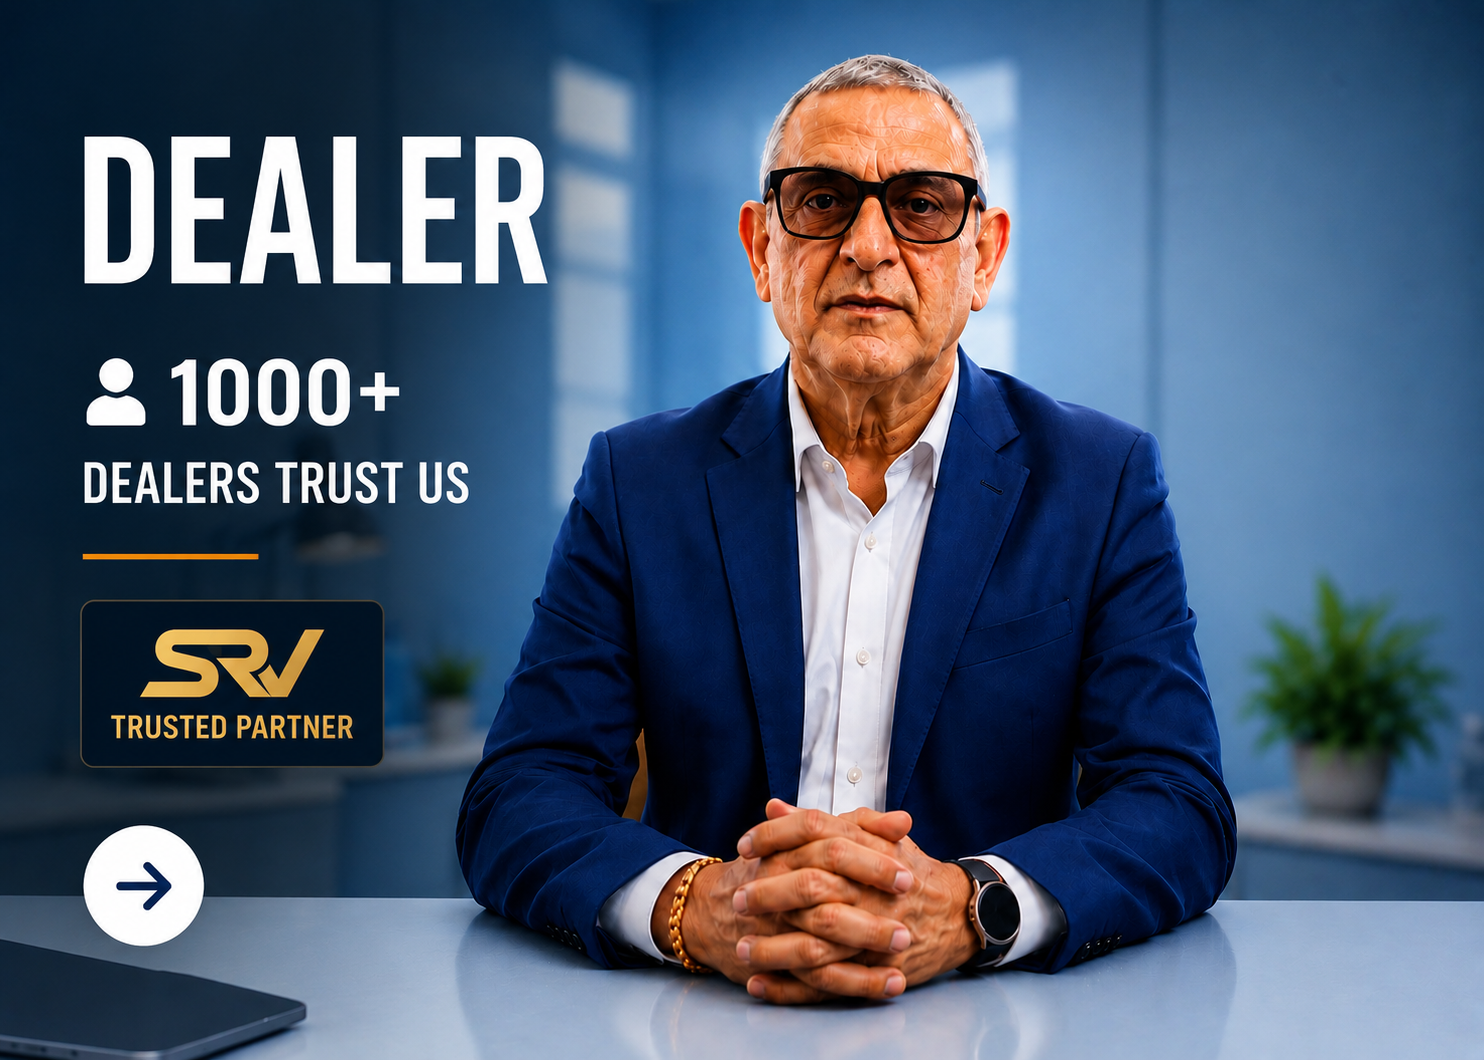
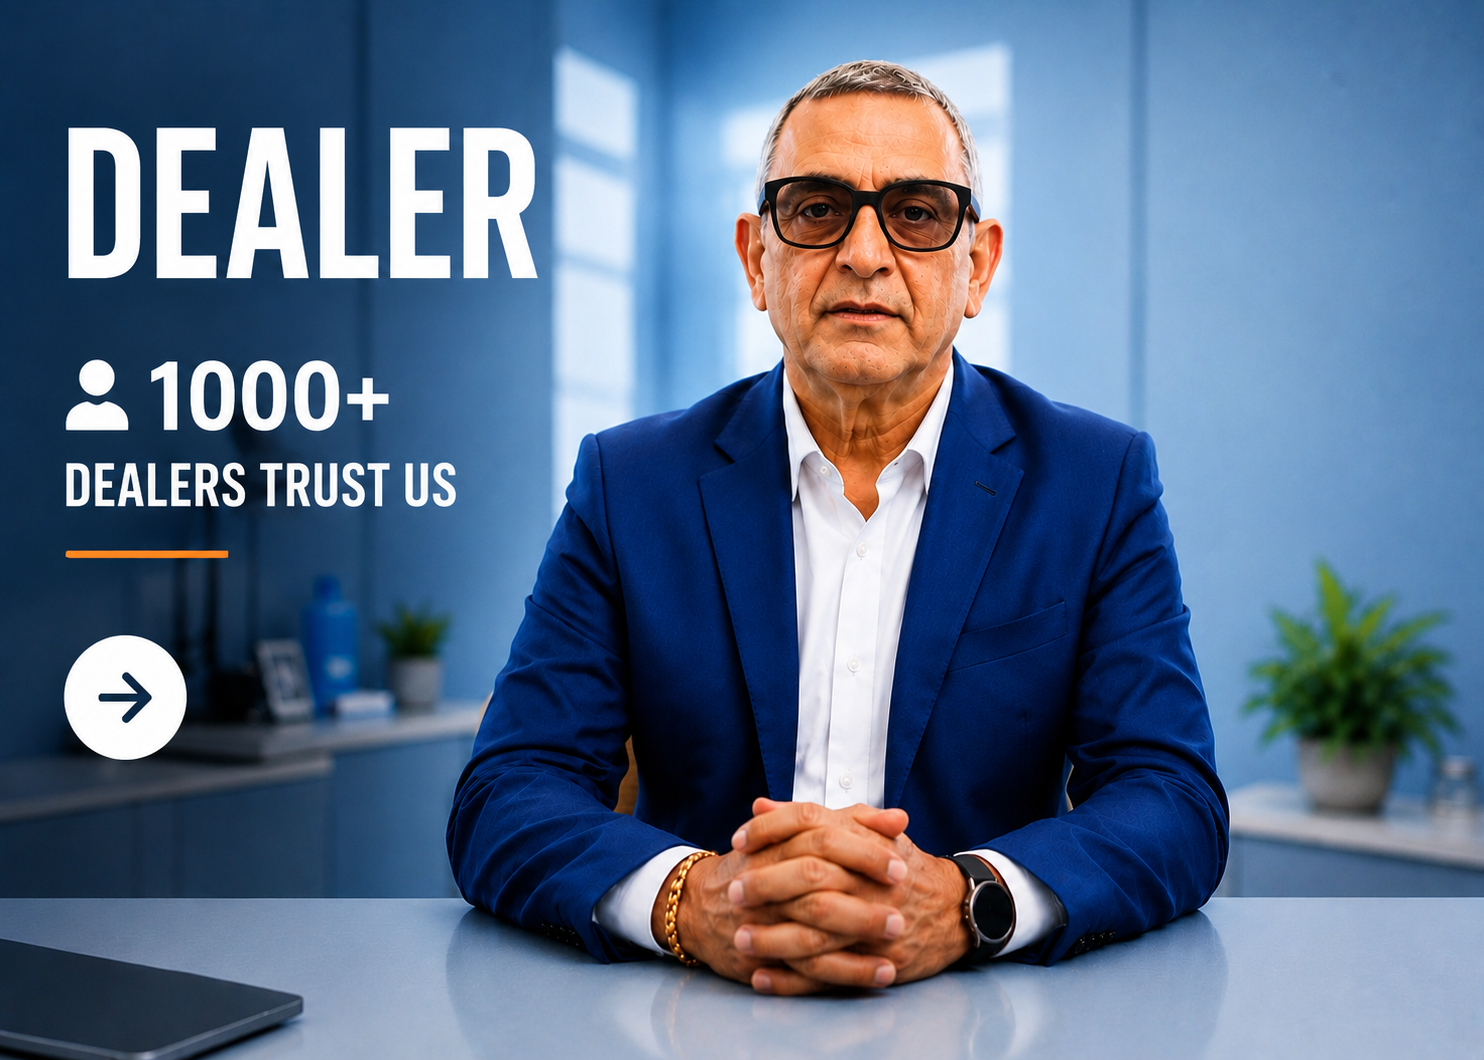
main slide design fix

diff --git a/src/features/onboarding/Main_Slide.tsx b/src/features/onboarding/Main_Slide.tsx
@@ -29,6 +29,7 @@ type FeatureBadgeConfig = {
   title: string;
   icon: 'shield' | 'award' | 'check' | 'target';
   accent: string;
+  compact?: boolean;
 };
 
 const LOGO = require('../../../assets/srv-login-logo.png');
@@ -64,7 +65,7 @@ const FEATURE_BADGES: FeatureBadgeConfig[] = [
   { title: 'BUILT WITH TRUST', icon: 'shield', accent: '#173E80' },
   { title: 'DRIVEN BY QUALITY', icon: 'award', accent: '#C85A2C' },
   { title: 'RELIABLE & DURABLE', icon: 'check', accent: '#188A2D' },
-  { title: 'PRECISION PERFORMANCE', icon: 'target', accent: '#C7332F' },
+  { title: 'PRECISION\nPERFORMANCE', icon: 'target', accent: '#C7332F', compact: true },
 ];
 
 function DividerTitle({ label, color = DARK_NAVY }: { label: string; color?: string }) {
@@ -148,6 +149,34 @@ function FeatureIcon({ icon, accent }: { icon: FeatureBadgeConfig['icon']; accen
   );
 }
 
+function TopAccentBars({
+  side,
+  top,
+}: {
+  side: 'left' | 'right';
+  top: number;
+}) {
+  const rightSide = side === 'right';
+
+  return (
+    <View
+      pointerEvents="none"
+      style={[
+        styles.accentBarsWrap,
+        rightSide ? styles.accentBarsRight : styles.accentBarsLeft,
+        { top },
+      ]}
+    >
+      <View style={[styles.barPiece, styles.barNavyLg, rightSide ? styles.barNavyLgRight : null]} />
+      <View style={[styles.barPiece, styles.barGoldMd, rightSide ? styles.barGoldMdRight : null]} />
+      <View style={[styles.barPiece, styles.barNavySm, rightSide ? styles.barNavySmRight : null]} />
+      <View style={[styles.barPiece, styles.barGoldSm, rightSide ? styles.barGoldSmRight : null]} />
+      <View style={[styles.barPiece, styles.barGoldMini, rightSide ? styles.barGoldMiniRight : null]} />
+      <View style={[styles.barDot, rightSide ? styles.barDotRight : null]} />
+    </View>
+  );
+}
+
 function RoleCard({
   item,
   onPress,
@@ -178,9 +207,8 @@ function RoleCard({
 export default function MainSlide({ onRoleSelect }: MainSlideProps) {
   const insets = useSafeAreaInsets();
   const compact = isSmallDevice;
-  const cardWidth: DimensionValue = isTablet ? '48.9%' : '48.4%';
-  const cornerTop = insets.top + hs(6);
-  const cornerGlowTop = cornerTop + hs(10);
+  const cardWidth: DimensionValue = isTablet ? '49%' : '49.1%';
+  const cornerTop = insets.top + hs(8);
 
   return (
     <SafeAreaView style={styles.container}>
@@ -188,13 +216,11 @@ export default function MainSlide({ onRoleSelect }: MainSlideProps) {
         style={[
           styles.content,
           compact ? styles.contentCompact : null,
-          { paddingTop: Math.max(insets.top, hs(8)) + hs(14) },
+          { paddingTop: Math.max(insets.top, hs(8)) + hs(18) },
         ]}
       >
-        <View style={[styles.cornerTopLeft, { top: cornerTop }]} />
-        <View style={[styles.cornerTopRight, { top: cornerTop }]} />
-        <View style={[styles.cornerGlowLeft, { top: cornerGlowTop }]} />
-        <View style={[styles.cornerGlowRight, { top: cornerGlowTop }]} />
+        <TopAccentBars side="left" top={cornerTop} />
+        <TopAccentBars side="right" top={cornerTop} />
 
         <View style={styles.heroArt}>
           <Image source={LOGO} resizeMode="contain" style={styles.heroLogo} />
@@ -226,7 +252,9 @@ export default function MainSlide({ onRoleSelect }: MainSlideProps) {
           {FEATURE_BADGES.map((badge) => (
             <View key={badge.title} style={styles.featureCard}>
               <FeatureIcon icon={badge.icon} accent={badge.accent} />
-              <Text style={styles.featureText}>{badge.title}</Text>
+              <Text style={[styles.featureText, badge.compact ? styles.featureTextCompact : null]}>
+                {badge.title}
+              </Text>
             </View>
           ))}
         </View>
@@ -243,61 +271,104 @@ const styles = StyleSheet.create({
   content: {
     flex: 1,
     paddingHorizontal: ws(18),
-    paddingBottom: hs(12),
+    paddingBottom: hs(6),
     backgroundColor: PAGE_BG,
   },
   contentCompact: {
     paddingHorizontal: ws(14),
   },
-  cornerTopLeft: {
+  accentBarsWrap: {
     position: 'absolute',
-    top: 0,
+    width: ws(100),
+    height: hs(64),
+  },
+  accentBarsLeft: {
     left: 0,
-    width: ws(118),
-    height: hs(96),
-    borderBottomRightRadius: ws(46),
-    backgroundColor: DARK_NAVY,
   },
-  cornerTopRight: {
-    position: 'absolute',
-    top: 0,
+  accentBarsRight: {
     right: 0,
-    width: ws(118),
-    height: hs(96),
-    borderBottomLeftRadius: ws(46),
-    backgroundColor: DARK_NAVY,
   },
-  cornerGlowLeft: {
+  barPiece: {
     position: 'absolute',
-    top: hs(12),
-    left: -ws(10),
-    width: ws(130),
-    height: hs(62),
-    borderBottomRightRadius: ws(46),
-    borderWidth: 3,
-    borderColor: '#E4AF52',
-    opacity: 0.92,
+    borderRadius: 999,
   },
-  cornerGlowRight: {
+  barNavyLg: {
+    top: hs(8),
+    left: ws(4),
+    width: ws(52),
+    height: 8,
+    backgroundColor: '#0C2348',
+  },
+  barNavyLgRight: {
+    left: undefined,
+    right: ws(4),
+  },
+  barGoldMd: {
+    top: hs(22),
+    left: ws(18),
+    width: ws(42),
+    height: 6,
+    backgroundColor: '#D8A04B',
+  },
+  barGoldMdRight: {
+    left: undefined,
+    right: ws(18),
+  },
+  barNavySm: {
+    top: hs(34),
+    left: ws(30),
+    width: ws(30),
+    height: 5,
+    backgroundColor: '#16386F',
+  },
+  barNavySmRight: {
+    left: undefined,
+    right: ws(30),
+  },
+  barGoldSm: {
+    top: hs(45),
+    left: ws(12),
+    width: ws(22),
+    height: 4,
+    backgroundColor: '#F0C979',
+  },
+  barGoldSmRight: {
+    left: undefined,
+    right: ws(12),
+  },
+  barGoldMini: {
+    top: hs(51),
+    left: ws(40),
+    width: ws(16),
+    height: 3,
+    backgroundColor: '#B96A31',
+  },
+  barGoldMiniRight: {
+    left: undefined,
+    right: ws(40),
+  },
+  barDot: {
     position: 'absolute',
-    top: hs(12),
-    right: -ws(10),
-    width: ws(130),
-    height: hs(62),
-    borderBottomLeftRadius: ws(46),
-    borderWidth: 3,
-    borderColor: '#E4AF52',
-    opacity: 0.92,
+    top: hs(18),
+    left: ws(66),
+    width: ws(8),
+    height: ws(8),
+    borderRadius: ws(4),
+    backgroundColor: '#E6BC69',
+  },
+  barDotRight: {
+    left: undefined,
+    right: ws(66),
   },
   heroArt: {
     alignItems: 'center',
-    paddingTop: hs(48),
-    paddingBottom: hs(6),
+    paddingTop: hs(30),
+    paddingBottom: hs(8),
   },
   heroLogo: {
-    width: ws(198),
-    height: hs(70),
-    marginBottom: hs(2),
+    width: ws(238),
+    height: hs(88),
+    marginBottom: hs(4),
   },
   dividerRow: {
     flexDirection: 'row',
@@ -333,7 +404,7 @@ const styles = StyleSheet.create({
     color: DARK_NAVY,
     fontSize: rf(24, 22, 27),
     fontWeight: '900',
-    marginTop: hs(14),
+    marginTop: hs(16),
   },
   welcomeTitleCompact: {
     fontSize: rf(22, 20, 24),
@@ -344,21 +415,21 @@ const styles = StyleSheet.create({
     fontSize: rf(14, 12, 16),
     fontWeight: '500',
     marginTop: hs(8),
-    marginBottom: hs(12),
+    marginBottom: hs(10),
   },
   grid: {
     flexDirection: 'row',
     flexWrap: 'wrap',
     justifyContent: 'space-between',
-    rowGap: hs(10),
-    marginTop: hs(12),
+    rowGap: hs(16),
+    marginTop: hs(10),
   },
   roleCardPressable: {
     borderRadius: ws(16),
   },
   roleCard: {
     borderRadius: ws(16),
-    height: hs(158),
+    height: hs(146),
     overflow: 'hidden',
     position: 'relative',
     borderWidth: 1,
@@ -377,7 +448,7 @@ const styles = StyleSheet.create({
     flexDirection: 'row',
     flexWrap: 'nowrap',
     justifyContent: 'space-between',
-    marginTop: hs(12),
+    marginTop: hs(14),
     gap: ws(6),
   },
   featureCard: {
@@ -401,10 +472,14 @@ const styles = StyleSheet.create({
   },
   featureText: {
     color: '#1A2237',
-    fontSize: rf(8.8, 7.6, 9.5),
-    lineHeight: rf(11, 10, 12),
+    fontSize: rf(8.2, 7.2, 9),
+    lineHeight: rf(10.5, 9.5, 11.5),
     fontWeight: '800',
     textAlign: 'center',
+  },
+  featureTextCompact: {
+    fontSize: rf(7.4, 6.8, 8.2),
+    lineHeight: rf(9.6, 8.8, 10.4),
   },
   featureIconFrame: {
     width: ws(26),